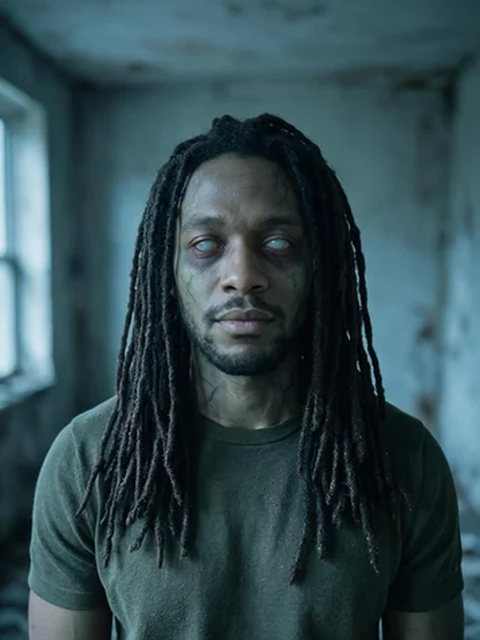
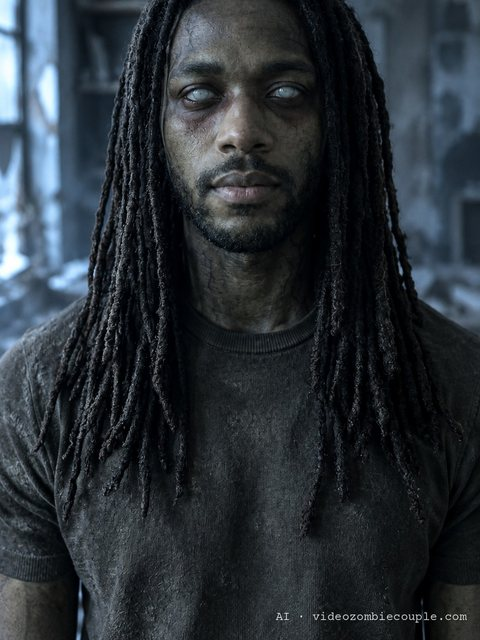
feat(photo): examples made by the filter itself on staging; privacy states the photo's retention; checklist

diff --git a/packages/i18n/src/en.ts b/packages/i18n/src/en.ts
@@ -141,7 +141,7 @@ export const en = {
   "photo.again": "Try another photo",
   "photo.examples.title": "Before and after",
   "photo.examples.note":
-    "AI-generated people, made with the same zombie look as the tool. Your own photo keeps your face.",
+    "AI-generated people, turned by this filter exactly as it runs, mark included. Your own photo keeps your face.",
   "photo.examples.before": "Example portrait before (AI-generated person)",
   "photo.examples.after": "The same AI-generated person as a zombie",
   "story.consent.terms": "Terms",
